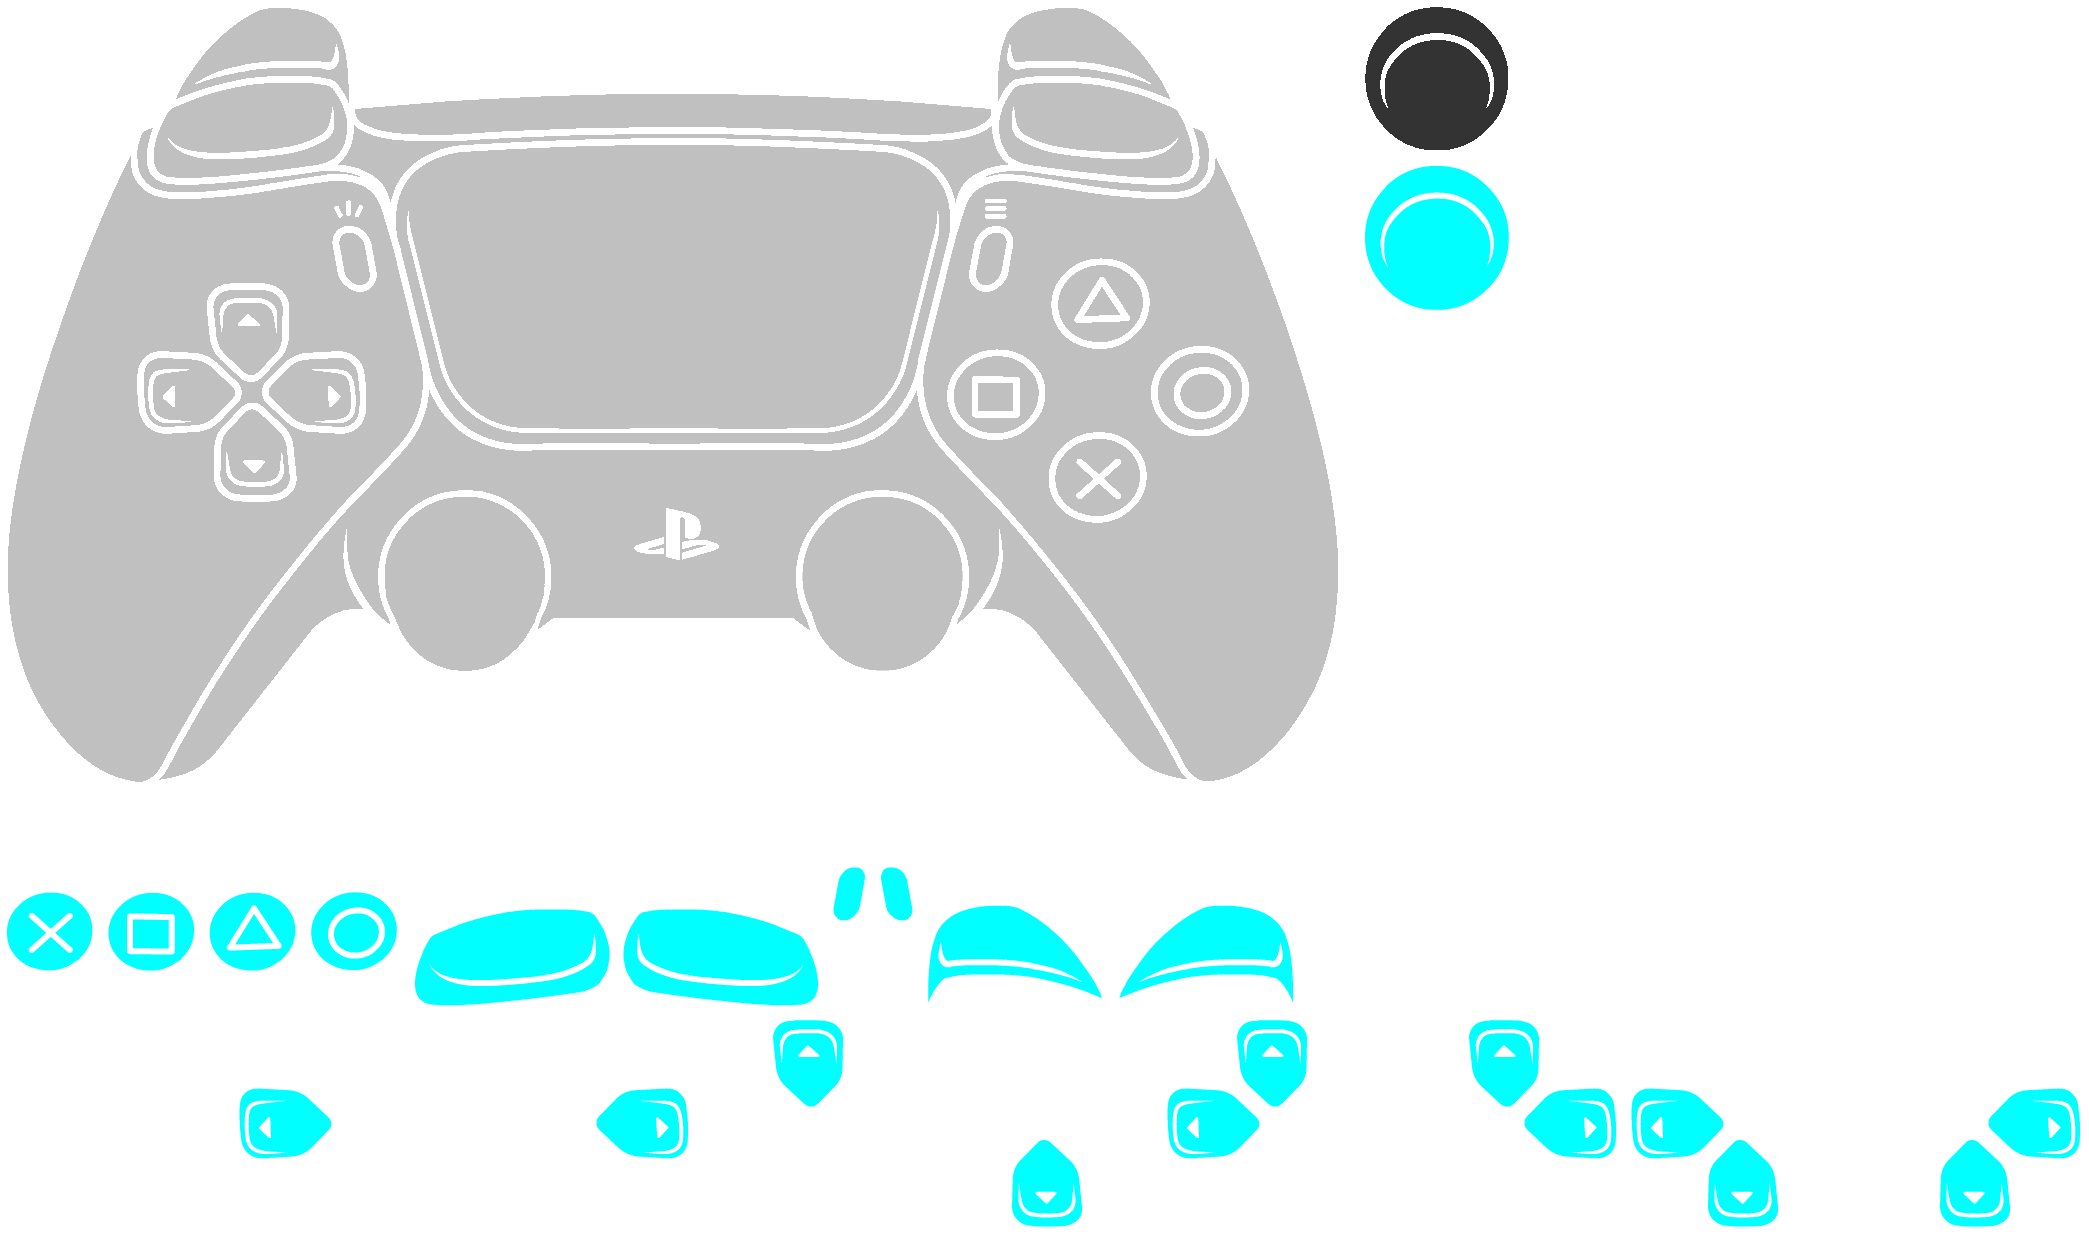
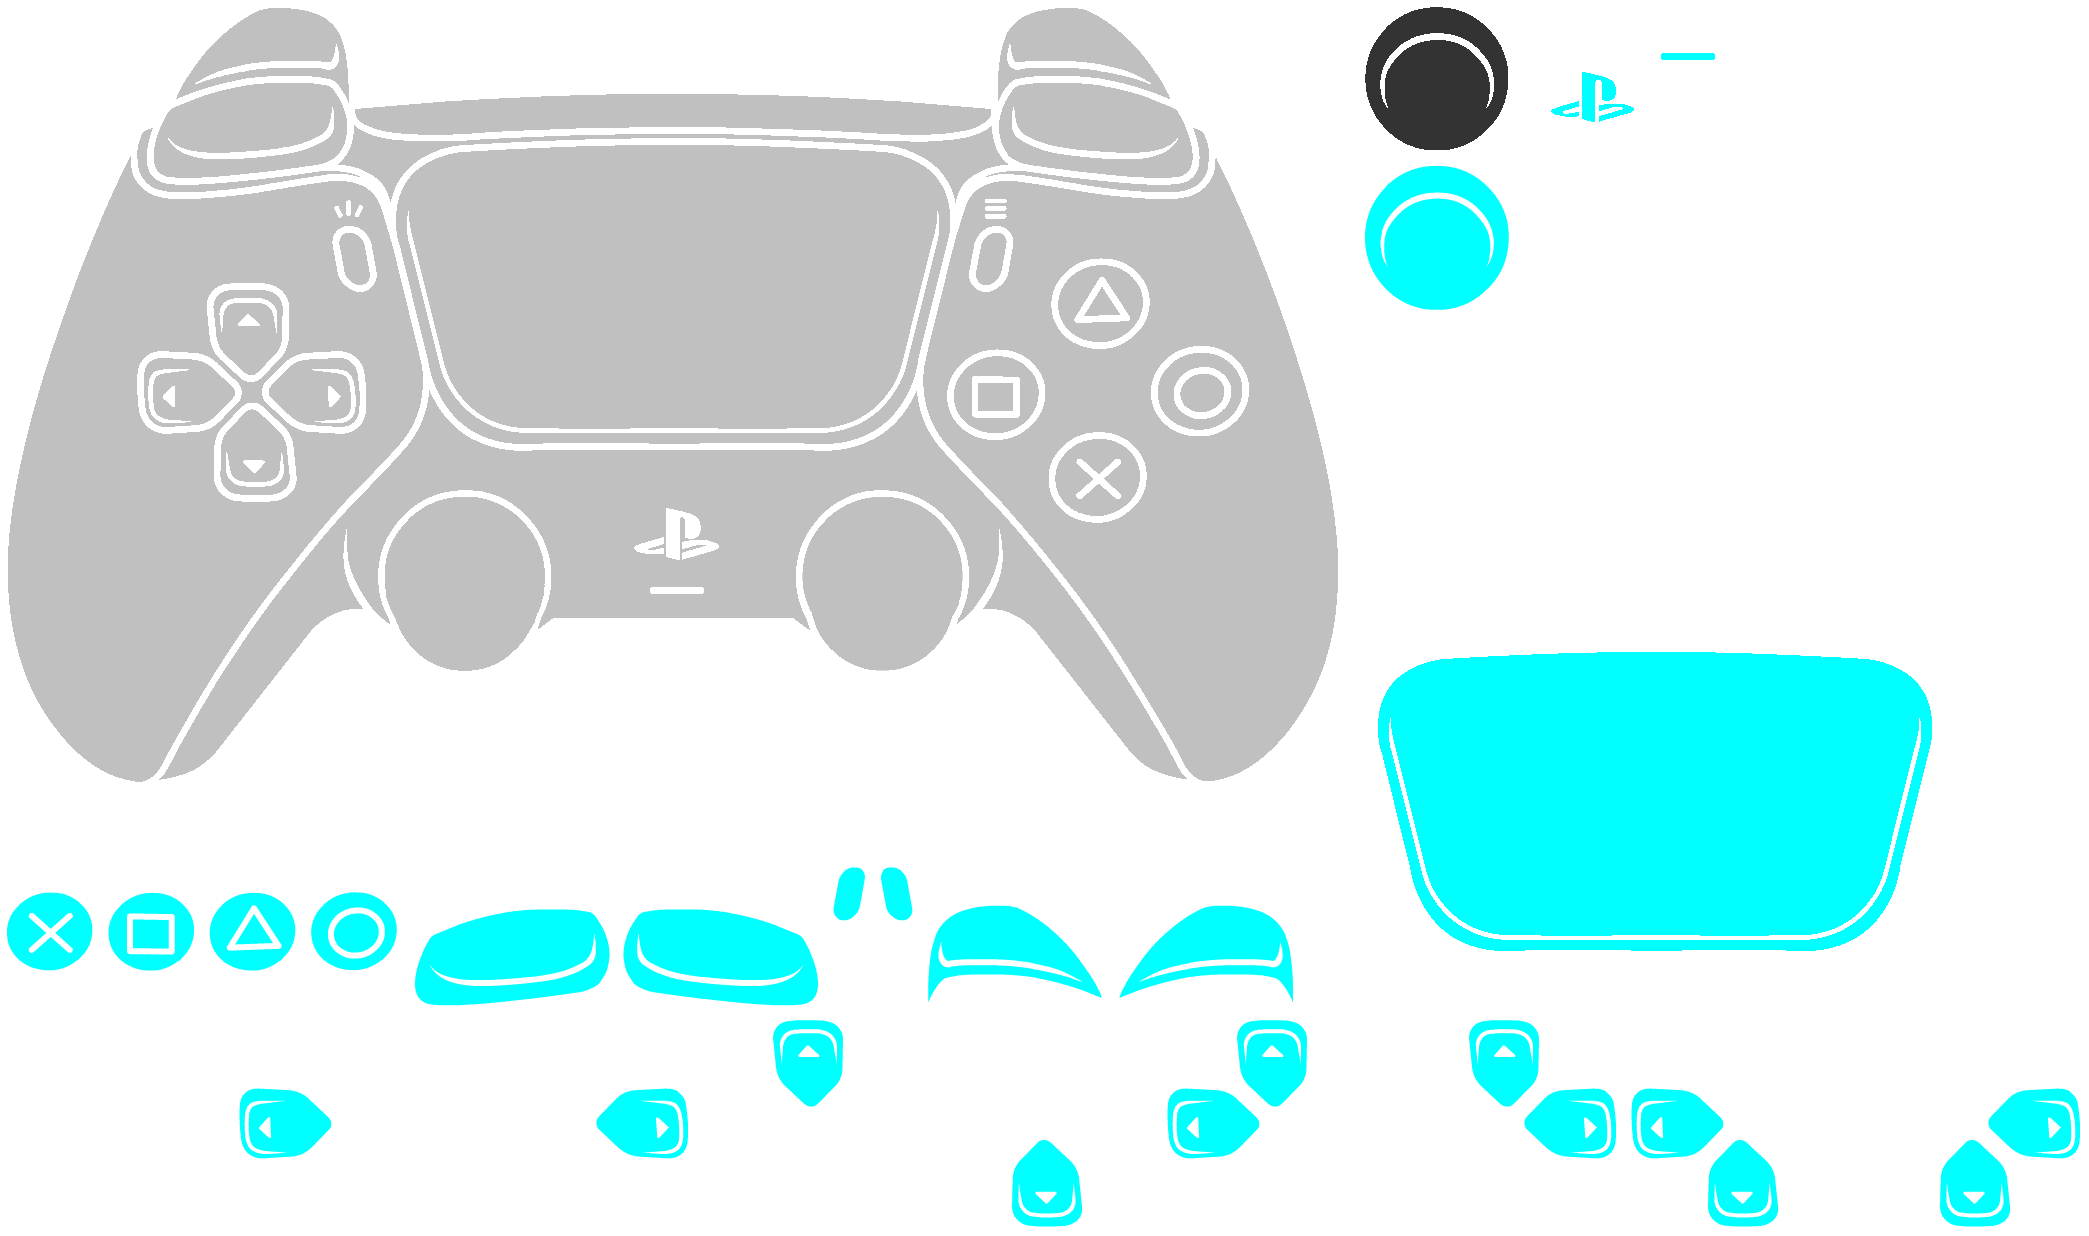
Presets, Gamepad: Fixed sdl_gamepad::copy_data to also include touch pad button (#422)
Iterate until `< SDL_CONTROLLER_BUTTON_MAX` instead of `< SDL_CONTROLLER_BUTTON_TOUCHPAD` so that the touchpad button is also copied.

- Improved DualSense Preset to support PSButton, TouchPad & MuteMic Button
- Cleaned up the json file with proper names for everything.

Changed region(s): [[0.6534, 0.5227, 0.9335, 0.7686], [0.7468, 0.0615, 0.7779, 0.0922], [0.3112, 0.4612, 0.3423, 0.4919]]

diff --git a/src/hook/sdl_gamepad.cpp b/src/hook/sdl_gamepad.cpp
@@ -3,7 +3,7 @@
 
 void sdl_gamepad::copy_data(input_data *data, int index)
 {
-    for (int i = 0; i < SDL_CONTROLLER_BUTTON_TOUCHPAD; ++i) {
+    for (int i = 0; i < SDL_CONTROLLER_BUTTON_MAX; ++i) {
         data->gamepad_buttons[index][i] = SDL_GameControllerGetButton(m_controller, (SDL_GameControllerButton)i) ==
                                           SDL_PRESSED;
     }
